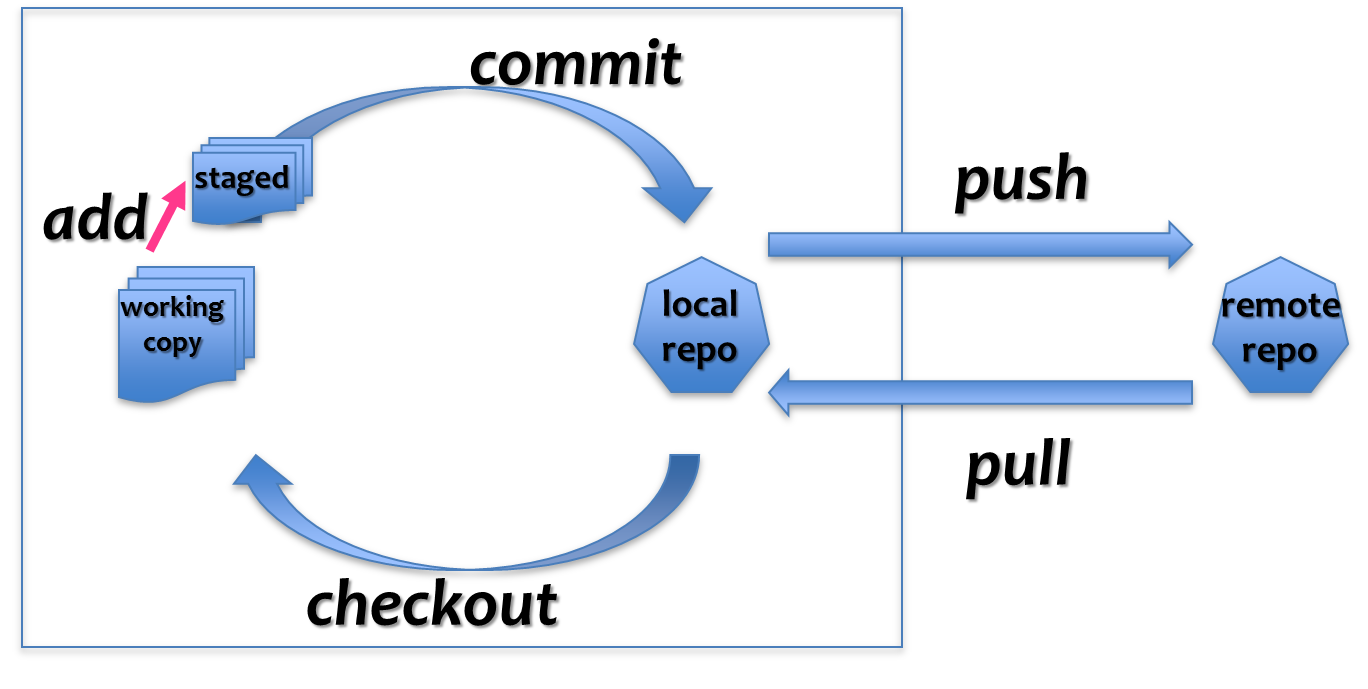
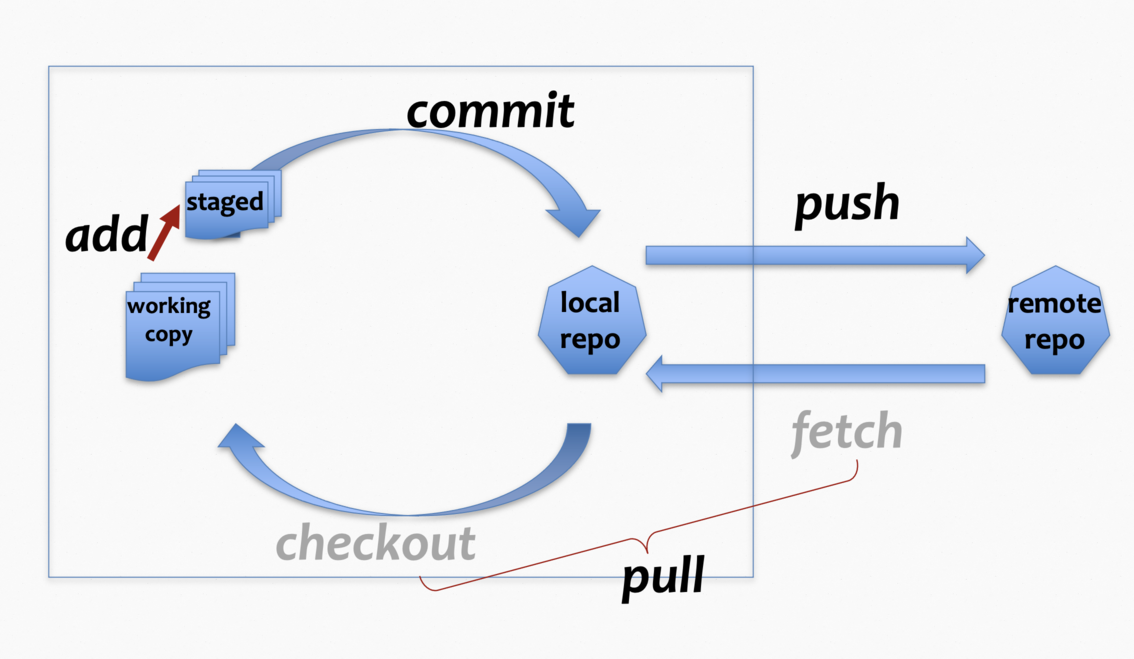
git 2.lektion in dev tools fertig

diff --git a/content/assets/css/all.css b/content/assets/css/all.css
@@ -4643,7 +4643,7 @@ a.thumbnail:hover {
     width: 670px;
   }
   .span8 {
-    width: 770px;
+    width: 870px;
   }
   .span9 {
     width: 870px;
@@ -4659,7 +4659,7 @@ a.thumbnail:hover {
     width: 1170px;
   }
   .offset1 {
-    margin-left: 130px;
+    margin-left: 30px;
   }
   .offset2 {
     margin-left: 230px;

diff --git a/content/git/git-zwei.md b/content/git/git-zwei.md
@@ -1,6 +1,6 @@
 ---
 title: Git für Zwei
-order: 36
+order: 50
 ---
 
 Wie funktioniert die Arbeit mit git, wenn ich auf zwei
@@ -11,7 +11,7 @@ Computern arbeite?  Oder wenn zwei Personen zusammen arbeiten?
 Git ist ein Verteiltes Versionskontrollsystem. "Verteilt" (distributed) heißt hier:
 Auf mehreren Computer kann eine Version des Repository liegen.
 
-![](/images/git/git-zwei.png)
+![](/images/git/git-zwei-computer.png)
 
 Mit dem Befehlen `push` und `pull` übertragen wir Information zwischen den
 verschiedenen Computern.
@@ -23,20 +23,28 @@ Szenario: ich beginne mein Projekte auf dem Laptop,
 pushe auf ein remote Repository.  Später will ich die Arbeit auf meinem
 PC fortsetzen.
 
-![](/images/git/git-zwei-todo.png)
+![](/images/git/git-zwei-laptop-pc.png)
 
 Wichtige Vorbereitung: auf dem zweiten Computer brauche ich wider meinen
 private key als Datei `~/.ssh/id_rsa`. Und bei ersten Mal hole ich das
 Repository mit `git clone` auf den Computer.
 
+Später brauche ich dann nur noch den Befehl `git pull` um die Daten vom
+remote repository ins local repository zu holen und von dort auch gleich in die
+working copy.
+
 ## Zwei Personen
 
 Szenario: ich arbeit mit Andreas zusammen an einem Projekt.
 
-![](/images/git/git-zwei-todo.png)
+![](/images/git/git-zwei-andreas.png)
 
 Wichtige Vorbereitung: Über die Weboberfläche gitlab gebe ich Andreas
 Zugriffsrechte auf das Remote Repository. (Projekt Information → Mitglieder → grüner Button 'Invite Members' ...). Bei ersten Mal holt  sich Andreas das Repository mit `git clone` auf seinen Computer.
+
+Später braucht er dann nur noch den Befehl `git pull` um die Daten vom
+remote repository ins local repository zu holen und von dort auch gleich in die
+working copy.
 
 ## Zwei Änderungen
 

diff --git a/content/git/git-tools.md b/content/git/git-tools.md
@@ -1,6 +1,6 @@
 ---
 title: Tools für Git
-order: 50
+order: 90
 ---
 
 Verschiedene Tools stellen für Git eine grafische Oberfläche zur Verfügung. (Warnung: So eine Oberfläche ersetzt nicht das Verständnis von git!)
@@ -27,7 +27,7 @@ VS Code
 ------
 
 VS Code kann mit Versionskontrollsystemen umgehen - oder man verwendet
-das Terminal. 
+das Terminal.
 
 [Dokumentation](https://code.visualstudio.com/docs/editor/versioncontrol)
 ![](/images/git-vscode.png)

diff --git a/content/git/git-status.md b/content/git/git-status.md
@@ -1,6 +1,6 @@
 ---
 title: Status von Git abfragen
-order: 40
+order: 35
 ---
 
 Mit dem Befehl `git status` kann man den aktuellen Zustand des lokalen Repositories und der working copy abfragen.

diff --git a/content/git/commits.md b/content/git/commits.md
@@ -1,6 +1,6 @@
 ---
 title: Commit
-order: 33
+order: 40
 ---
 
 Mit `git add` bereiten wir einen Commit vor, mit `git commit` führen wir ihn durch - aber

diff --git a/content/git/basic-git.md b/content/git/basic-git.md
@@ -1,5 +1,5 @@
 ---
-title: Einfacher Arbeitsablauf in Git
+title: Arbeitsablauf
 order: 30
 ---
 
